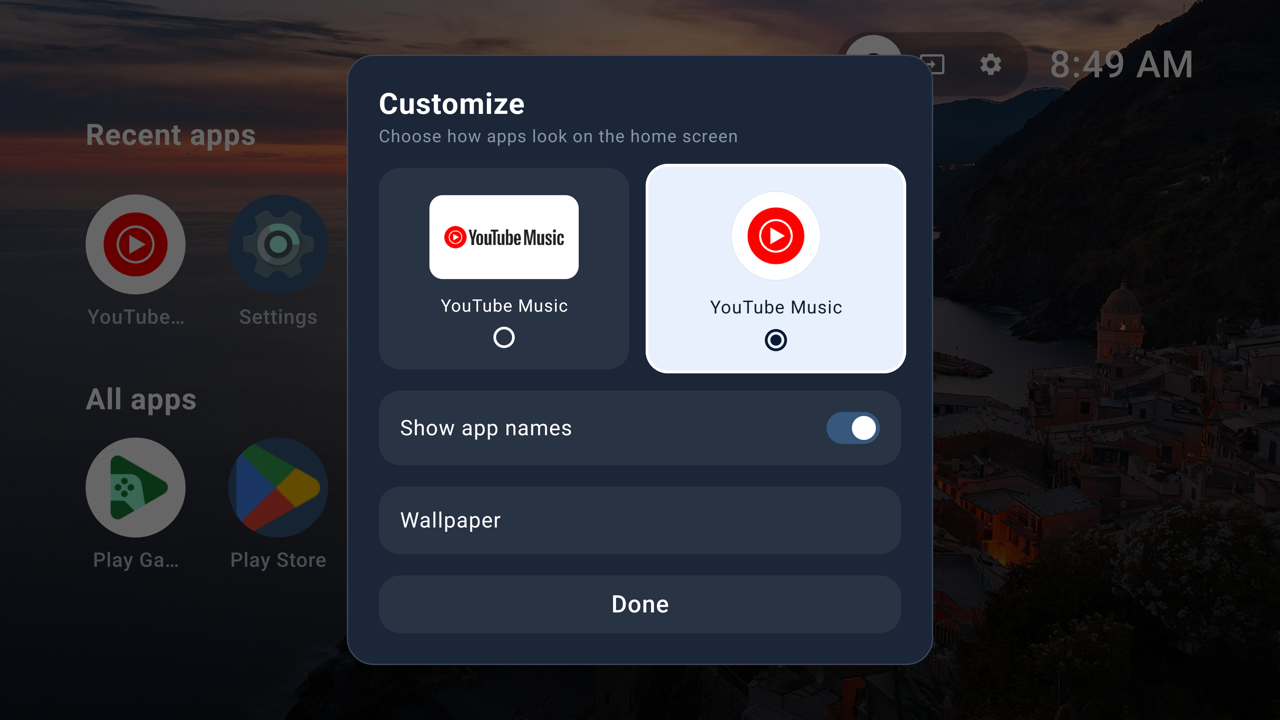
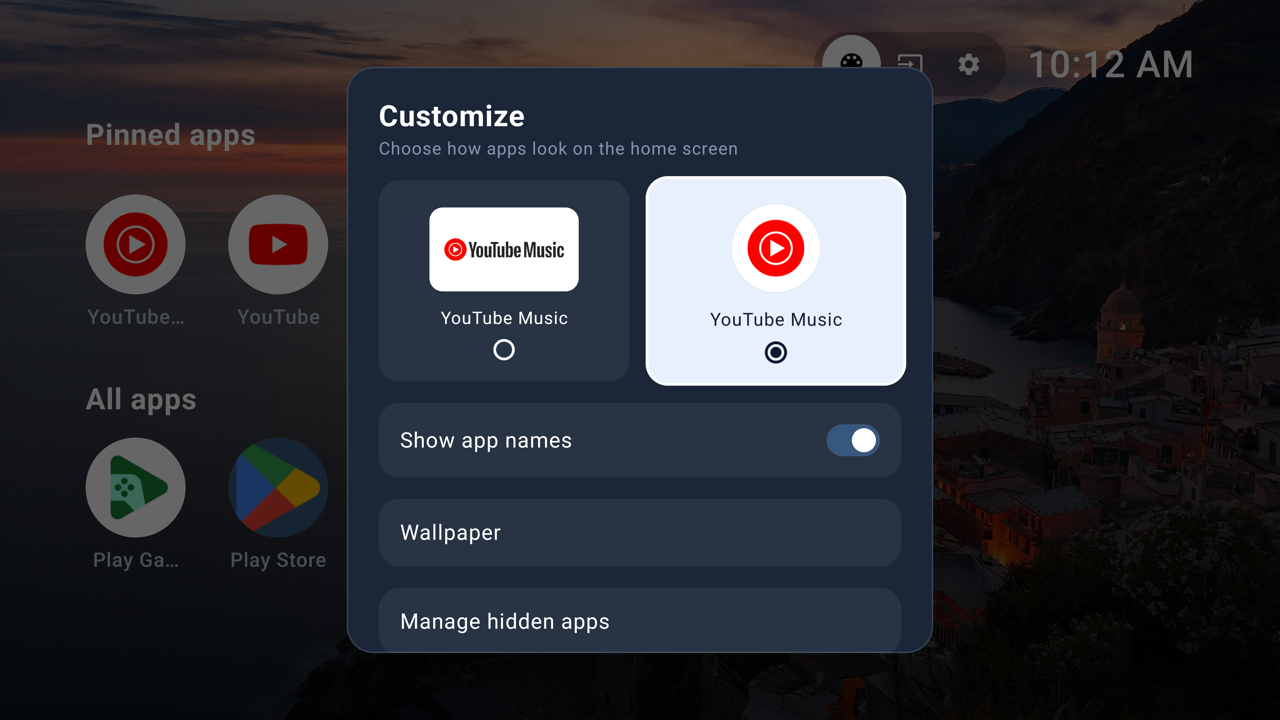
Update README screenshots and document app actions

diff --git a/README.md b/README.md
@@ -8,13 +8,17 @@ Pin favorites in a horizontally scrolling row (in pin order), hide apps, or sort
 
 ## Screenshots
 
-Captured from the app running on an Android TV emulator.
+Captured from the current app running on an Android TV emulator, with pinned apps enabled.
 
-![Home screen](docs/screenshots/home.png)
+![Home screen with pinned apps](docs/screenshots/home.png)
 
 | Customize | Wallpapers |
 |-----------|------------|
 | ![Icon style and app names](docs/screenshots/customize.png) | ![Wallpaper selector](docs/screenshots/wallpapers.png) |
+
+**App actions:** open, pin/unpin, hide, or uninstall.
+
+![App actions with Pin and Hide](docs/screenshots/app-options.png)
 
 ## Install
 
